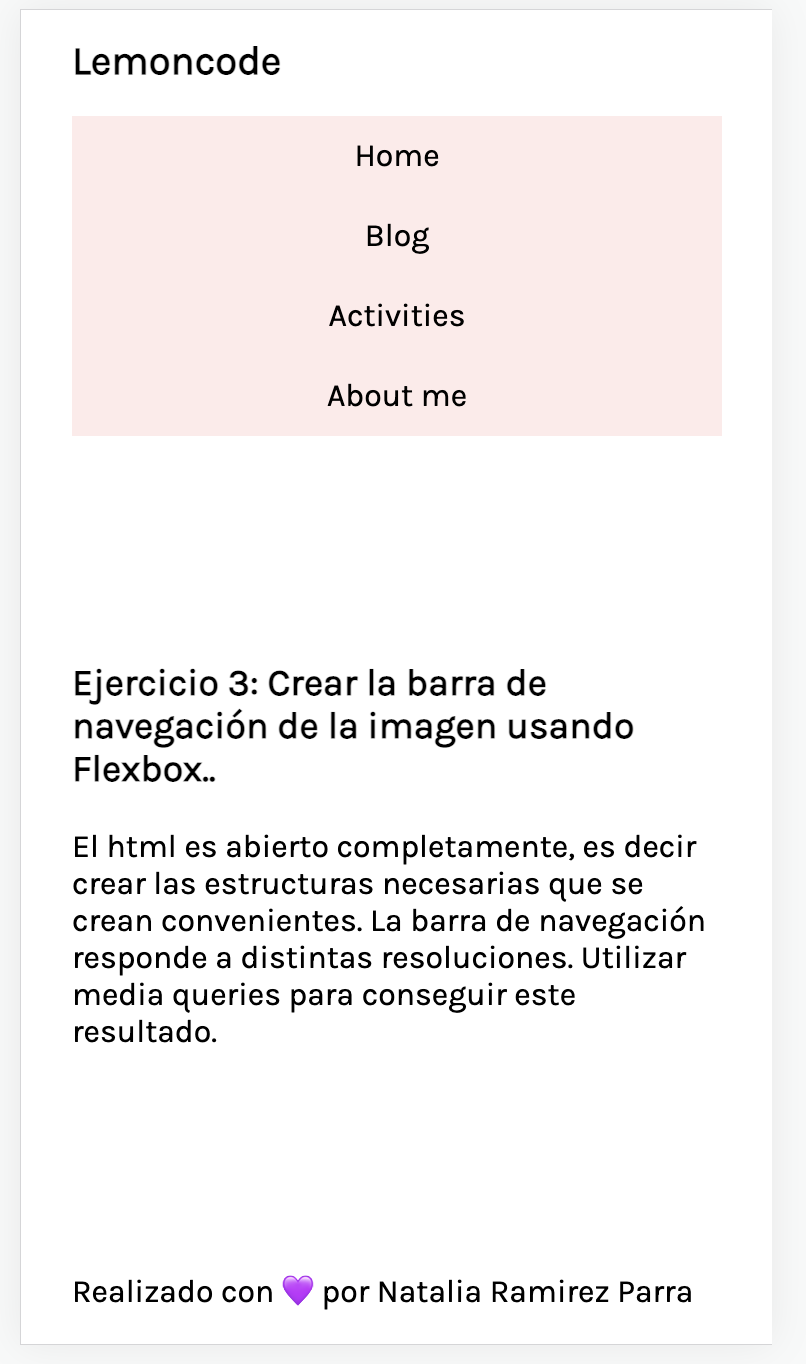
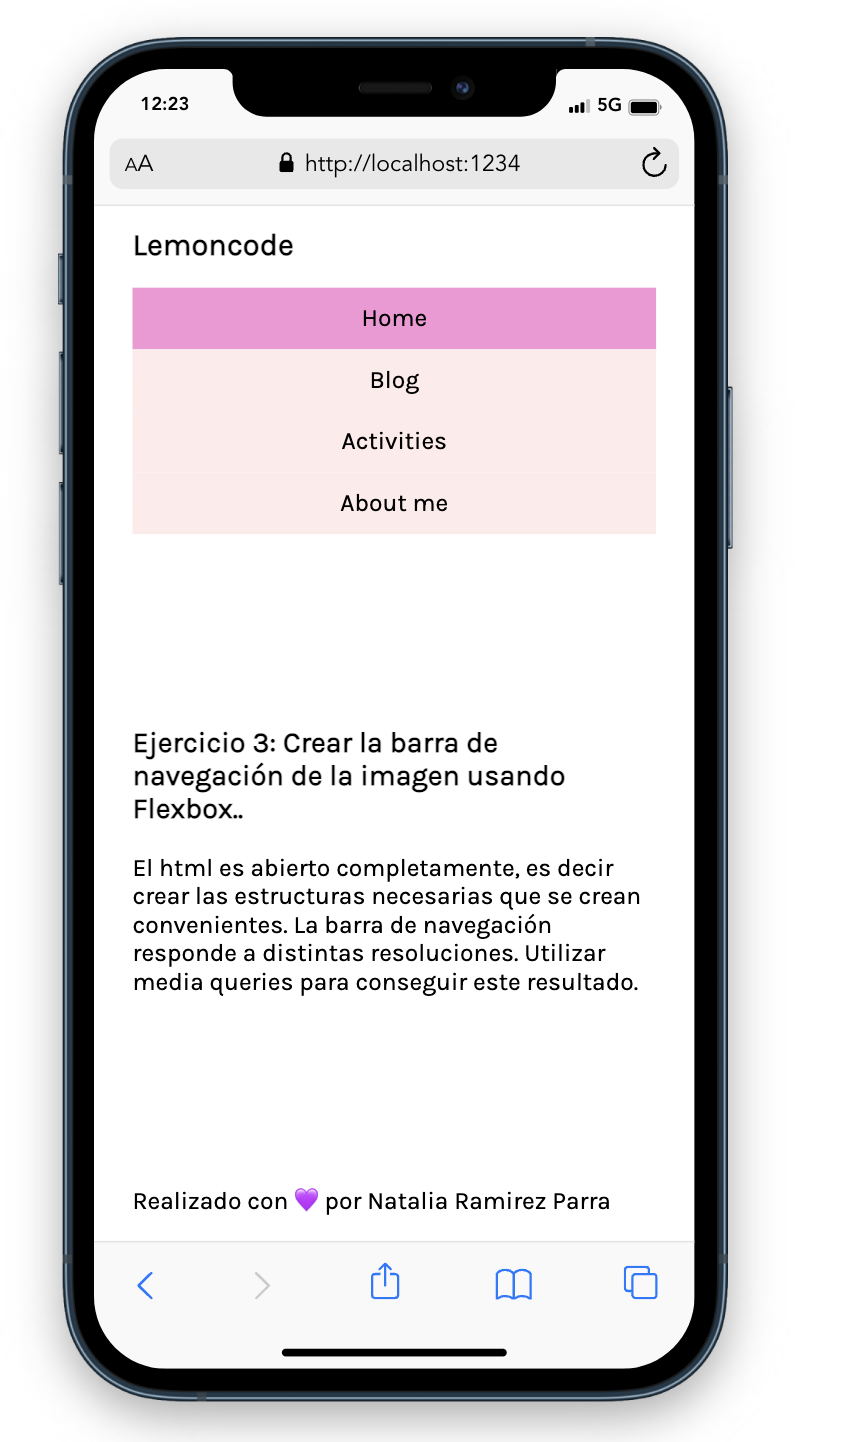
order files exercise-2

Changed region(s): [[0.031, 0.0, 0.8685, 0.9853], [0.4032, 0.3387, 0.5273, 0.3695]]

diff --git a/dist/index.html b/dist/index.html
@@ -4,57 +4,41 @@
     <meta charset="UTF-8">
     <meta http-equiv="X-UA-Compatible" content="IE=edge">
     <meta name="viewport" content="width=device-width, initial-scale=1.0">
-    <title>Laboratorio Natalia Ramirez 👸🏻</title>
-    <link rel="stylesheet" href="/index.510b02da.css">
+    <title>Laboratorio: Ejercicio 3 - Natalia Ramirez 👸🏻</title>
+    <link rel="stylesheet" href="/index.6af70438.css">
     <link rel="preconnect" href="https://fonts.googleapis.com">
     <link rel="preconnect" href="https://fonts.gstatic.com" crossorigin="">
-    <link href="https://fonts.googleapis.com/css2?family=Poppins:ital@0;1&family=Work+Sans:ital@0;1&display=swap" rel="stylesheet">
-    <link rel="preconnect" href="https://fonts.googleapis.com">
-    <link rel="preconnect" href="https://fonts.gstatic.com" crossorigin="">
-    <link href="https://fonts.googleapis.com/css2?family=Lobster&family=Tajawal&display=swap" rel="stylesheet">
+    <link href="https://fonts.googleapis.com/css2?family=Karla&display=swap" rel="stylesheet">
   </head>
   <body class="wrapper">
-    <header>
-      <h1>Laboratorio Lemoncode</h1>
-    </header>
-    <main>
-      <section>
-        <h2>
-          Ejercicio 2: Crear dos temas distintos y mostrar los resultados en una
-          página.
-        </h2>
-        <p>
-          Los cambios en el tema afectan a las siguientes características:
-          color, fuente, border radius y shadow box
-        </p>
-      </section>
-      <section>
-        <h2>Solución</h2>
-        <div class="wrapper__solution">
-          <article class="container theme__1">
-            <h3>Theme 1</h3>
-            <div class="box base">Base</div>
-            <div class="box important">Important</div>
-            <div class="box warning" "="">Warning</div>
-            <p>Principal font</p>
-            <p class="font-secondary">Secondary font</p>
-            <div class="box box-shadow">Box with shadow</div>
-          </article>
+    <!-- Solución -->
+    <header class="header">
+      <h1 class="header__title">Lemoncode</h1>
 
-          <article class="container theme__2">
-            <h3>Theme 2</h3>
-            <div class="box base">Base</div>
-            <div class="box important">Important</div>
-            <div class="box warning" "="">Warning</div>
-            <p>Principal font</p>
-            <p class="font-secondary">Secondary font</p>
-            <div class="box box-shadow">Box with shadow</div>
-          </article>
-        </div>
-      </section>
-    </main>
+      <nav>
+        <ul class="header__list">
+          <li class="header__list--item">Home</li>
+          <li class="header__list--item">Blog</li>
+          <li class="header__list--item">Activities</li>
+          <li class="header__list--item">About me</li>
+        </ul>
+      </nav>
+    </header>
+
+    <section>
+      <h3>
+        Ejercicio 3: Crear la barra de navegación de la imagen usando Flexbox..
+      </h3>
+      <p>
+        El html es abierto completamente, es decir crear las estructuras
+        necesarias que se crean convenientes. La barra de navegación responde a
+        distintas resoluciones. Utilizar media queries para conseguir este
+        resultado.
+      </p>
+    </section>
+
     <footer>
       <p>Realizado con 💜 por Natalia Ramirez Parra</p>
     </footer>
-  <script src="/ejercicio-2.916806a0.js"></script></body>
+  <script src="/ejercicio-3.61cfadfb.js"></script></body>
 </html>

diff --git a/dist/index.6af70438.css b/dist/index.6af70438.css
@@ -1,27 +1,28 @@
-* {
+.wrapper {
+  box-sizing: content-box;
+  margin: 0 25px;
   padding: 0;
+}
+
+@media (min-width: 768px) {
+  .wrapper {
+    margin: 0 48px;
+  }
+}
+
+@media (min-width: 1280px) {
+  .wrapper {
+    max-width: 1120px;
+    margin: 0 auto;
+  }
 }
 
 body {
   height: 100vh;
   flex-direction: column;
   justify-content: space-between;
-  margin: 0 25px;
   font-family: Karla, sans-serif;
   display: flex;
-}
-
-@media (min-width: 768px) {
-  body {
-    margin: 0 48px;
-  }
-}
-
-@media (min-width: 1280px) {
-  body {
-    max-width: 1120px;
-    margin: 0 auto;
-  }
 }
 
 .header__title {
@@ -30,6 +31,7 @@ body {
 
 .header__list {
   flex-direction: column;
+  padding-left: 0;
   list-style: none;
   display: flex;
 }

diff --git a/src/ejercicio-3/sass/index.scss b/src/ejercicio-3/sass/index.scss
@@ -1,17 +1,4 @@
-@mixin tablet {
-  @media all and (min-width:768px) {
-    @content
-  }
-}
-
-;
-
-@mixin desktop {
-  @media all and (min-width:1280px) {
-    @content
-  }
-}
-;
+@import '../../sass/index.scss';
 
 body {
   display        : flex;
@@ -19,7 +6,7 @@ body {
   justify-content: space-between;
   height         : 100vh;
   font-family    : 'Karla',
-  sans-serif;
+    sans-serif;
 }
 
 .header {
@@ -32,6 +19,8 @@ body {
     display       : flex;
     flex-direction: column;
     list-style    : none;
+    padding-left  : 0px;
+    
 
     &--item {
       display         : flex;

diff --git a/src/ejercicio-3/index.html b/src/ejercicio-3/index.html
@@ -13,7 +13,8 @@
       rel="stylesheet"
     />
   </head>
-  <body>
+  <body class="wrapper" >
+    <!-- Solución -->
     <header class="header">
       <h1 class="header__title">Lemoncode</h1>
 
